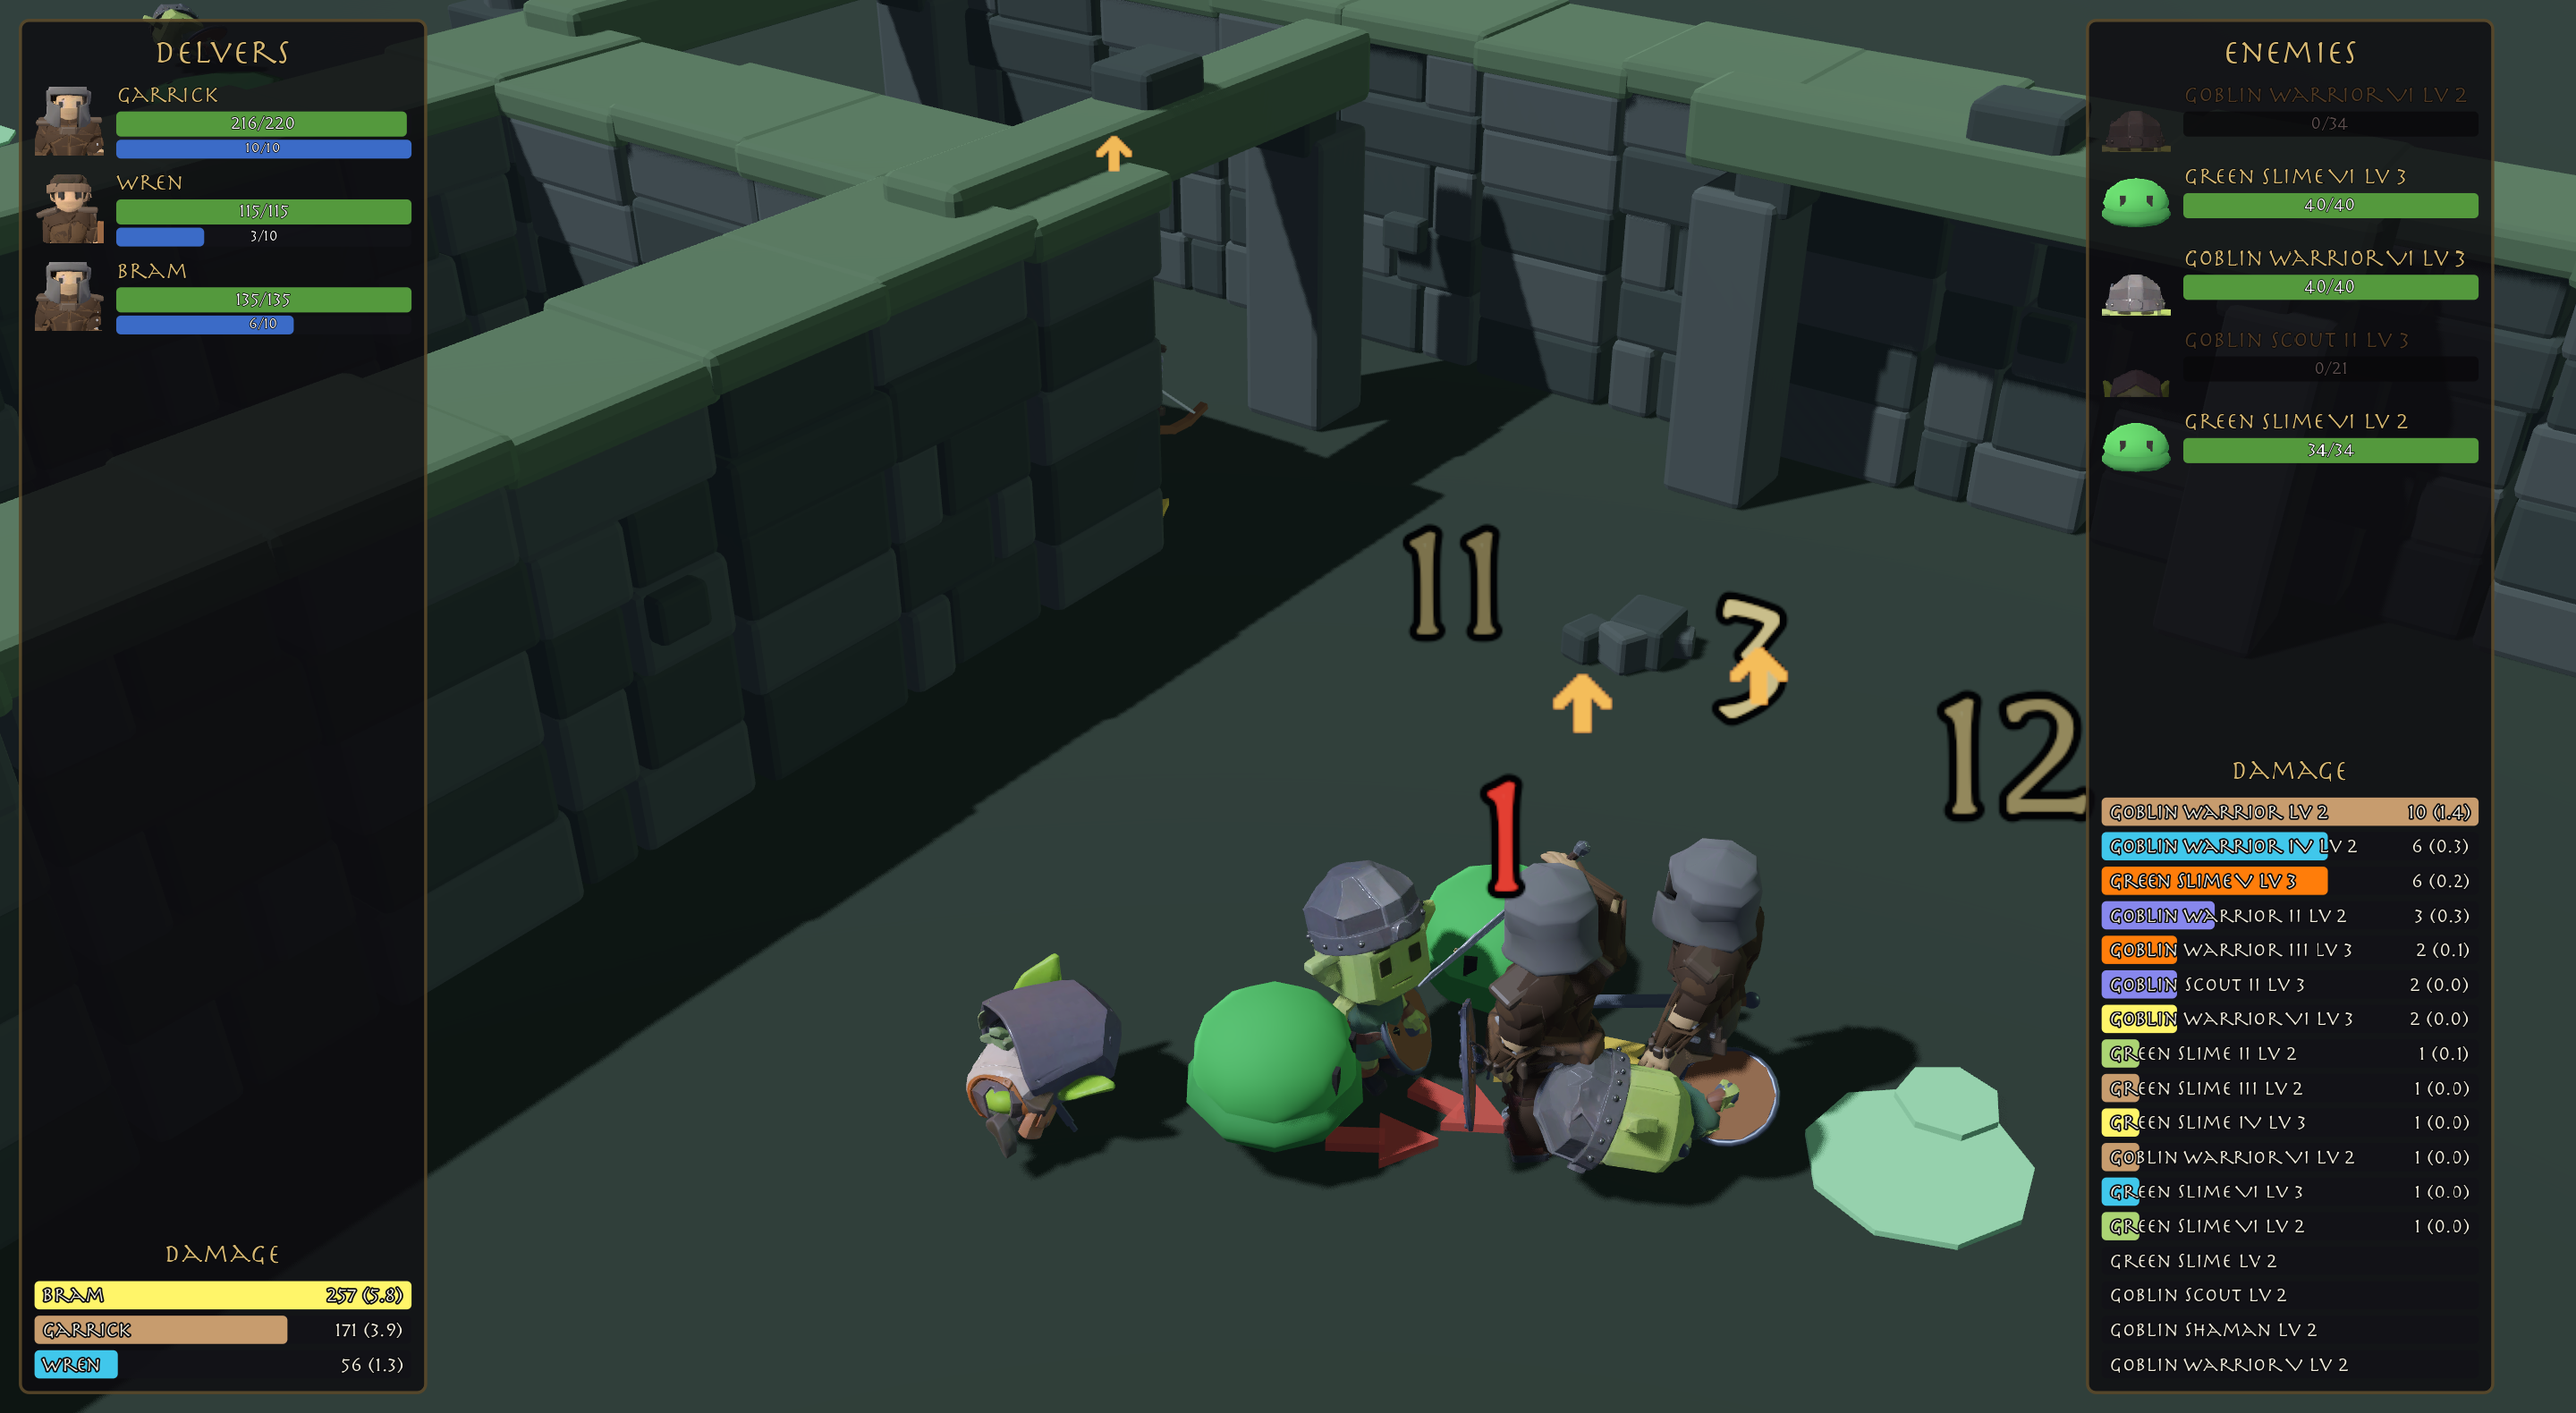
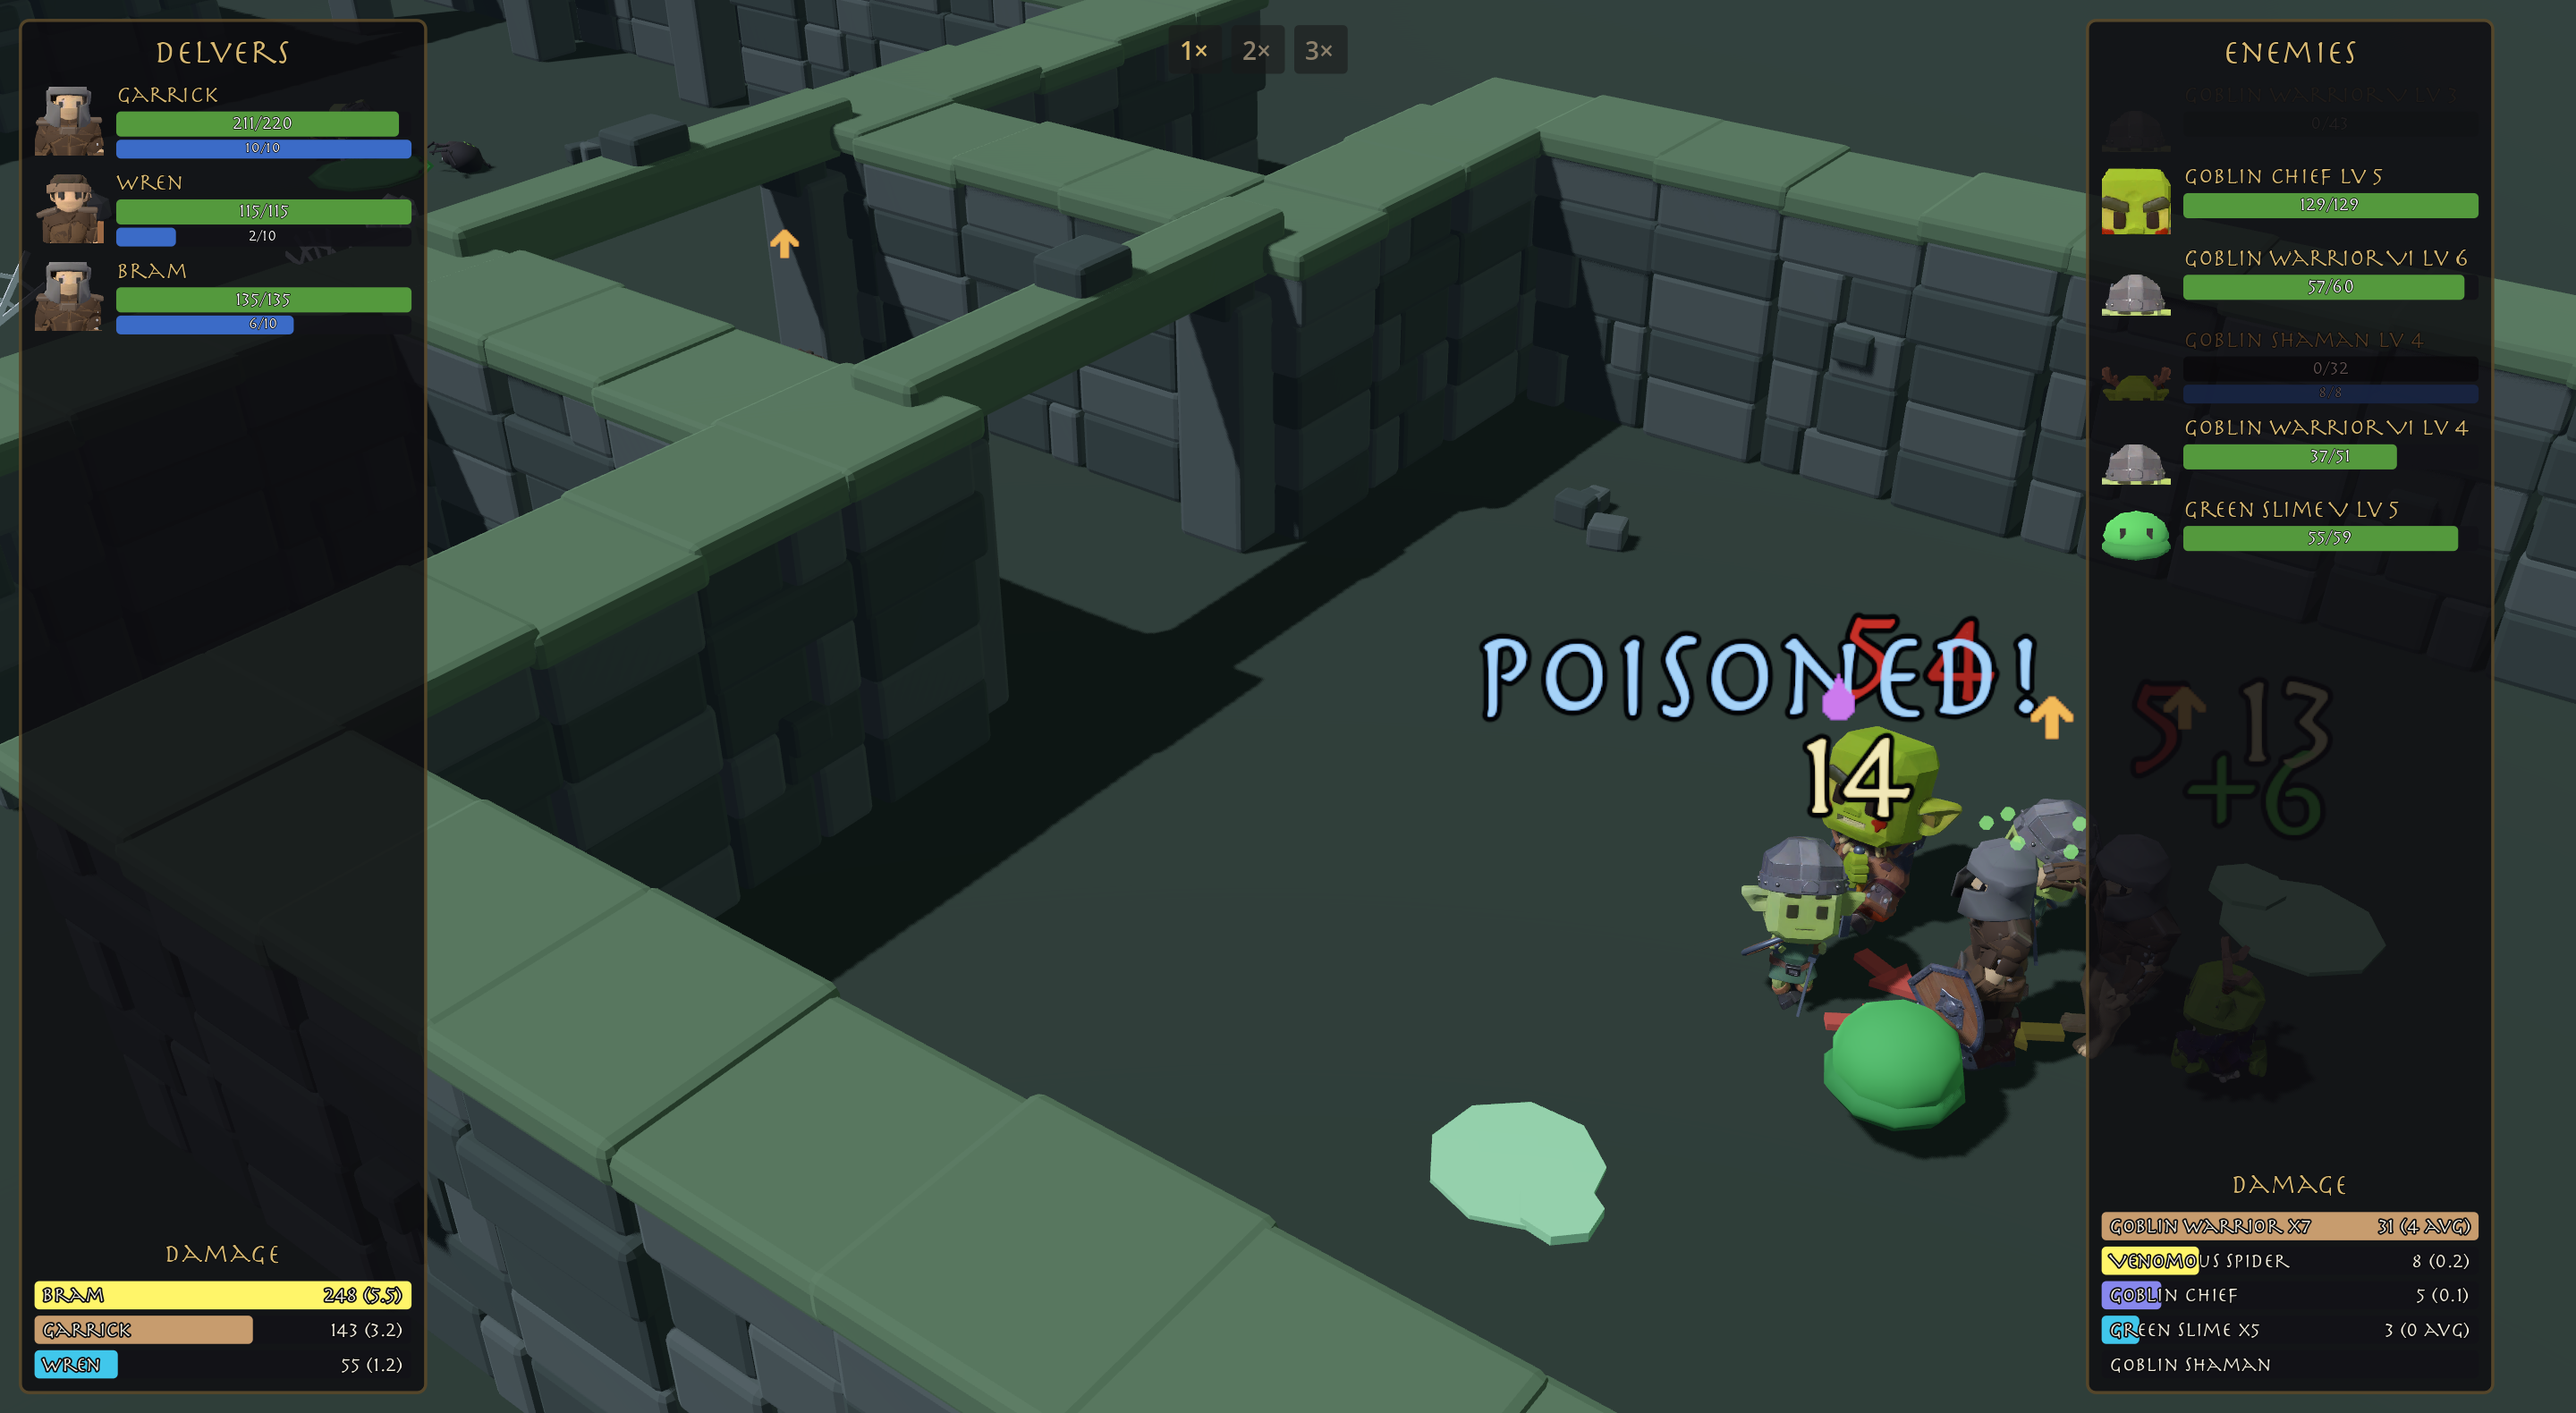
The leash, the player's clock, and meters that consolidate.
Packs with nobody left to chase now walk home, mend to full, and
take up their posts again - PACK_RESET events put their actors back
to sleep, clear their panel rows, and relax the music. Charging past
a pack costs you the pull, not your camera: the frame is anchored to
the party now, and enemies only widen it when they are within the
fight itself.

The replay obeys the player: 1x/2x/3x buttons in the battle UI
multiply the replay clock - the sim always ran ahead of time; the
theater just reads the log as fast as you ask. And the enemy damage
meter consolidates by kind: Nest Spiderling x12, total and per-head
average, one honest row instead of a hundred noisy ones.

test_pulls grows a leash contract: far pulls re-sleep, mend, and log
their reset. 46/46 tests.

diff --git a/CHANGELOG.md b/CHANGELOG.md
@@ -5,6 +5,18 @@ Notable changes per pull request. Newest first.
 ## The Continuous Dungeon — Phase A *(open)*
 
 ### Added
+- **Replay speed control**: 1×/2×/3× buttons in the battle UI - the
+  replay obeys the player's clock (the whole architecture was built
+  for exactly this: the sim already ran ahead; the theater just reads
+  the log faster).
+- **THE LEASH**: packs with nobody left to chase walk home, mend to
+  full, and take up their posts again (PACK_RESET events; the panel
+  forgets them, the music relaxes, and they will pull again). Charging
+  past a pack no longer leaves it trailing you across the dungeon.
+- **Consolidated enemy damage meters**: one row per enemy KIND -
+  "Nest Spiderling ×12" with total and per-head average - instead of
+  a hundred entries converging on noise. Heroes keep individual rows
+  and DPS.
 - **Contact reactions**: bodies answer the fight - a jolt away from
   a landed hit (bigger on crits), a quick sidestep on a dodge, a
   small brace on a block. Decaying offsets, no new animations needed.
@@ -218,7 +230,9 @@ Notable changes per pull request. Newest first.
   landmark, mid-boss hold, boss lair) - ordinary rooms just show
   their name in the clear-toast.
 - The battle camera opens on the party at the dungeon door, not the
-  middle of the map.
+  middle of the map - and stays ANCHORED to the party: enemies only
+  widen the frame when they are part of this fight, within seven
+  units, never stragglers across the map.
 - DPS meters freeze a combatant's clock at death - numbers stop
   converging to zero.
 - The spider death rerolled: wet crunch and curling legs, no screech.
